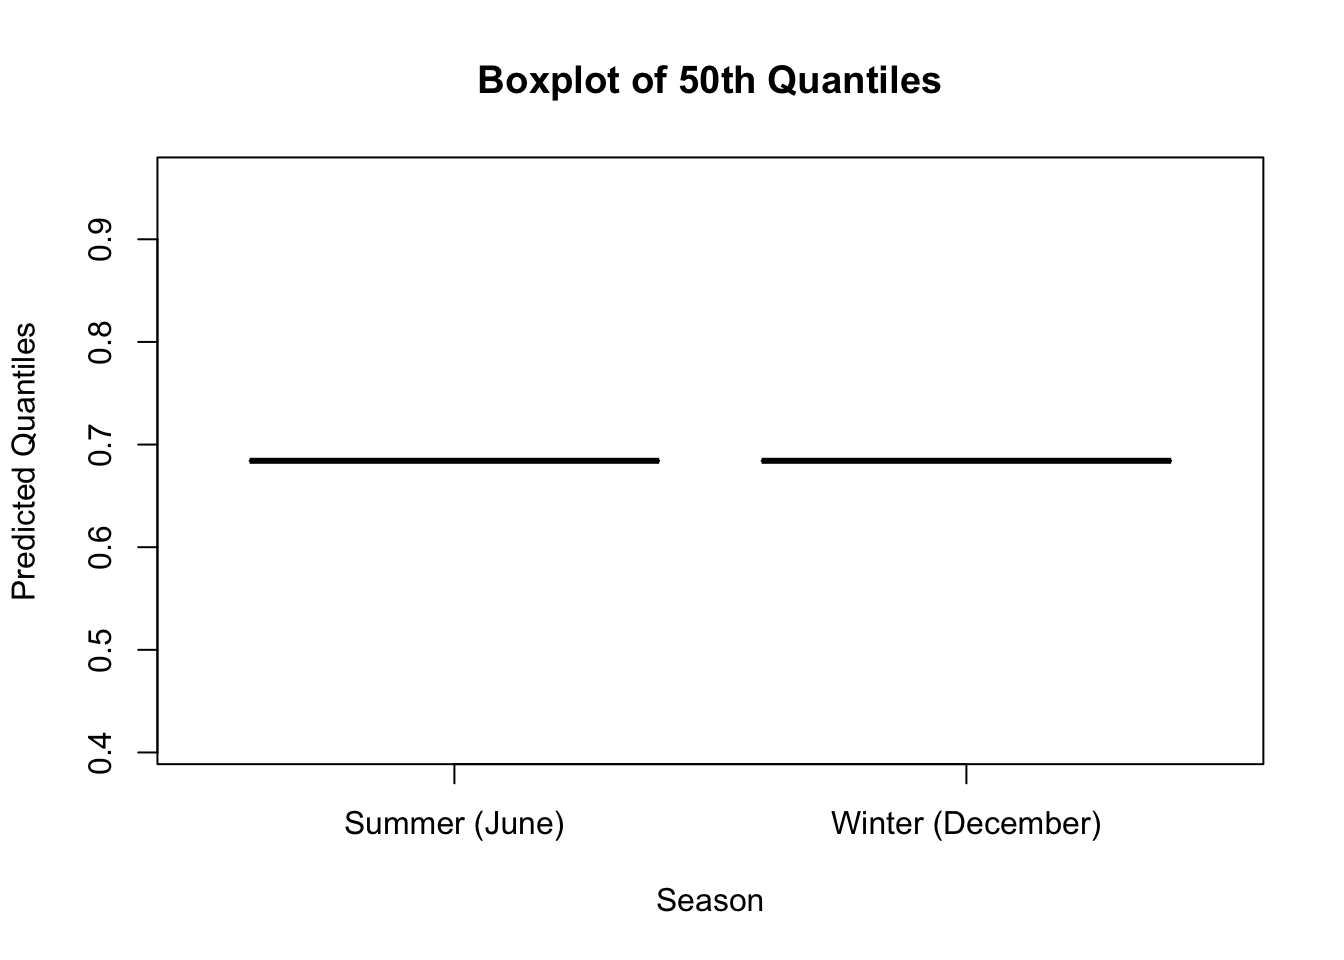
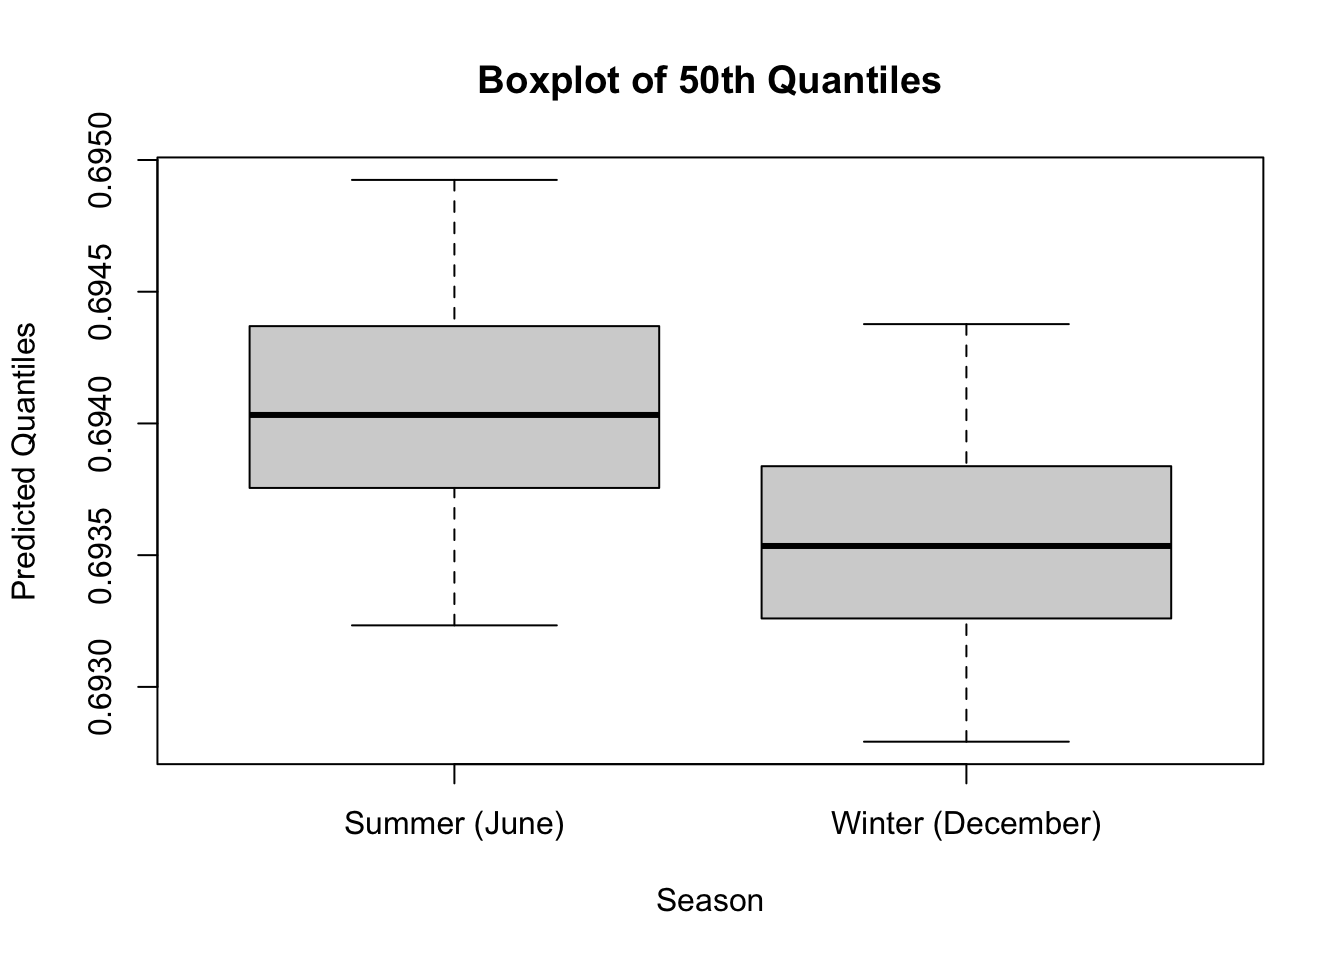
Fixing the look of the html pages

diff --git a/docs/STAT6393V/week-03/assignment-02/index.html b/docs/STAT6393V/week-03/assignment-02/index.html
@@ -489,12 +489,12 @@ This warning is displayed once per session.</code></pre>
 <span id="cb15-3"><a href="#cb15-3" aria-hidden="true" tabindex="-1"></a><span class="fu">print</span>(rmse_results)</span></code><button title="Copy to Clipboard" class="code-copy-button"><i class="bi"></i></button></pre></div>
 <div class="cell-output cell-output-stdout">
 <pre><code>  Model       RMSE
-1  m1.1 0.16510267
-2  m1.2 0.08993478
-3  m1.3 0.08804189
-4  m1.4 0.12676674
-5  m1.5 0.08786240
-6  m1.6 0.08942558</code></pre>
+1  m1.1 0.10760609
+2  m1.2 0.08704084
+3  m1.3 0.08888348
+4  m1.4 0.09940539
+5  m1.5 0.08958822
+6  m1.6 0.08905942</code></pre>
 </div>
 </div>
 <p>The best model will be the one with the lowest RMSE. We can also visually inspect the training and validation loss plots to ensure that the model is not overfitting or underfitting.</p>
@@ -503,7 +503,7 @@ This warning is displayed once per session.</code></pre>
 <span id="cb17-2"><a href="#cb17-2" aria-hidden="true" tabindex="-1"></a>best_model <span class="ot">&lt;-</span> rmse_results[<span class="fu">which.min</span>(rmse_results<span class="sc">$</span>RMSE), <span class="st">"Model"</span>]</span>
 <span id="cb17-3"><a href="#cb17-3" aria-hidden="true" tabindex="-1"></a><span class="fu">print</span>(<span class="fu">paste</span>(<span class="st">"The best model is:"</span>, best_model))</span></code><button title="Copy to Clipboard" class="code-copy-button"><i class="bi"></i></button></pre></div>
 <div class="cell-output cell-output-stdout">
-<pre><code>[1] "The best model is: m1.5"</code></pre>
+<pre><code>[1] "The best model is: m1.2"</code></pre>
 </div>
 </div>
 </div>
@@ -568,11 +568,11 @@ Answer 2 - Getting Predictions
 <div class="cell">
 <div class="sourceCode cell-code" id="cb25"><pre class="sourceCode r code-with-copy"><code class="sourceCode r"><span id="cb25-1"><a href="#cb25-1" aria-hidden="true" tabindex="-1"></a><span class="fu">str</span>(m1_6)</span></code><button title="Copy to Clipboard" class="code-copy-button"><i class="bi"></i></button></pre></div>
 <div class="cell-output cell-output-stdout">
-<pre><code> num [1:270] 0.684 0.684 0.684 0.684 0.684 ...</code></pre>
+<pre><code> num [1:270] 0.695 0.695 0.695 0.694 0.694 ...</code></pre>
 </div>
 <div class="sourceCode cell-code" id="cb27"><pre class="sourceCode r code-with-copy"><code class="sourceCode r"><span id="cb27-1"><a href="#cb27-1" aria-hidden="true" tabindex="-1"></a><span class="fu">str</span>(m1_12)</span></code><button title="Copy to Clipboard" class="code-copy-button"><i class="bi"></i></button></pre></div>
 <div class="cell-output cell-output-stdout">
-<pre><code> num [1:279] 0.684 0.684 0.684 0.684 0.684 ...</code></pre>
+<pre><code> num [1:279] 0.694 0.694 0.694 0.694 0.694 ...</code></pre>
 </div>
 </div>
 <p>The predictions <code>m1_6</code> and <code>m1_12</code> will be vectors of predicted mean demand for June and December, respectively. We can use these predictions to calculate the quantiles in the next step.</p>
@@ -612,19 +612,19 @@ Answer 3 - Getting quantiles for the Normal distribution
 <div class="cell">
 <div class="sourceCode cell-code" id="cb32"><pre class="sourceCode r code-with-copy"><code class="sourceCode r"><span id="cb32-1"><a href="#cb32-1" aria-hidden="true" tabindex="-1"></a><span class="fu">str</span>(m1_6_50)</span></code><button title="Copy to Clipboard" class="code-copy-button"><i class="bi"></i></button></pre></div>
 <div class="cell-output cell-output-stdout">
-<pre><code> num [1:270] 0.684 0.684 0.684 0.684 0.684 ...</code></pre>
+<pre><code> num [1:270] 0.695 0.695 0.695 0.694 0.694 ...</code></pre>
 </div>
 <div class="sourceCode cell-code" id="cb34"><pre class="sourceCode r code-with-copy"><code class="sourceCode r"><span id="cb34-1"><a href="#cb34-1" aria-hidden="true" tabindex="-1"></a><span class="fu">str</span>(m1_6_95)</span></code><button title="Copy to Clipboard" class="code-copy-button"><i class="bi"></i></button></pre></div>
 <div class="cell-output cell-output-stdout">
-<pre><code> num [1:270] 2.45 2.45 2.45 2.45 2.45 ...</code></pre>
+<pre><code> num [1:270] 2.46 2.46 2.46 2.46 2.46 ...</code></pre>
 </div>
 <div class="sourceCode cell-code" id="cb36"><pre class="sourceCode r code-with-copy"><code class="sourceCode r"><span id="cb36-1"><a href="#cb36-1" aria-hidden="true" tabindex="-1"></a><span class="fu">str</span>(m1_12_50)</span></code><button title="Copy to Clipboard" class="code-copy-button"><i class="bi"></i></button></pre></div>
 <div class="cell-output cell-output-stdout">
-<pre><code> num [1:279] 0.684 0.684 0.684 0.684 0.684 ...</code></pre>
+<pre><code> num [1:279] 0.694 0.694 0.694 0.694 0.694 ...</code></pre>
 </div>
 <div class="sourceCode cell-code" id="cb38"><pre class="sourceCode r code-with-copy"><code class="sourceCode r"><span id="cb38-1"><a href="#cb38-1" aria-hidden="true" tabindex="-1"></a><span class="fu">str</span>(m1_12_95)</span></code><button title="Copy to Clipboard" class="code-copy-button"><i class="bi"></i></button></pre></div>
 <div class="cell-output cell-output-stdout">
-<pre><code> num [1:279] 2.45 2.45 2.45 2.45 2.45 ...</code></pre>
+<pre><code> num [1:279] 2.46 2.46 2.46 2.46 2.46 ...</code></pre>
 </div>
 </div>
 </div>
@@ -651,7 +651,7 @@ Answer 4 - Comparison of Electricity Use
     Wilcoxon rank sum test with continuity correction
 
 data:  m1_6_50 and m1_12_50
-W = 37665, p-value = NA
+W = 61260, p-value &lt; 2.2e-16
 alternative hypothesis: true location shift is not equal to 0</code></pre>
 </div>
 <div class="sourceCode cell-code" id="cb42"><pre class="sourceCode r code-with-copy"><code class="sourceCode r"><span id="cb42-1"><a href="#cb42-1" aria-hidden="true" tabindex="-1"></a><span class="co">#Model 1 Jun 95 - Dec 95</span></span>
@@ -661,7 +661,7 @@ alternative hypothesis: true location shift is not equal to 0</code></pre>
     Wilcoxon rank sum test with continuity correction
 
 data:  m1_6_95 and m1_12_95
-W = 37665, p-value = NA
+W = 61260, p-value &lt; 2.2e-16
 alternative hypothesis: true location shift is not equal to 0</code></pre>
 </div>
 </div>
